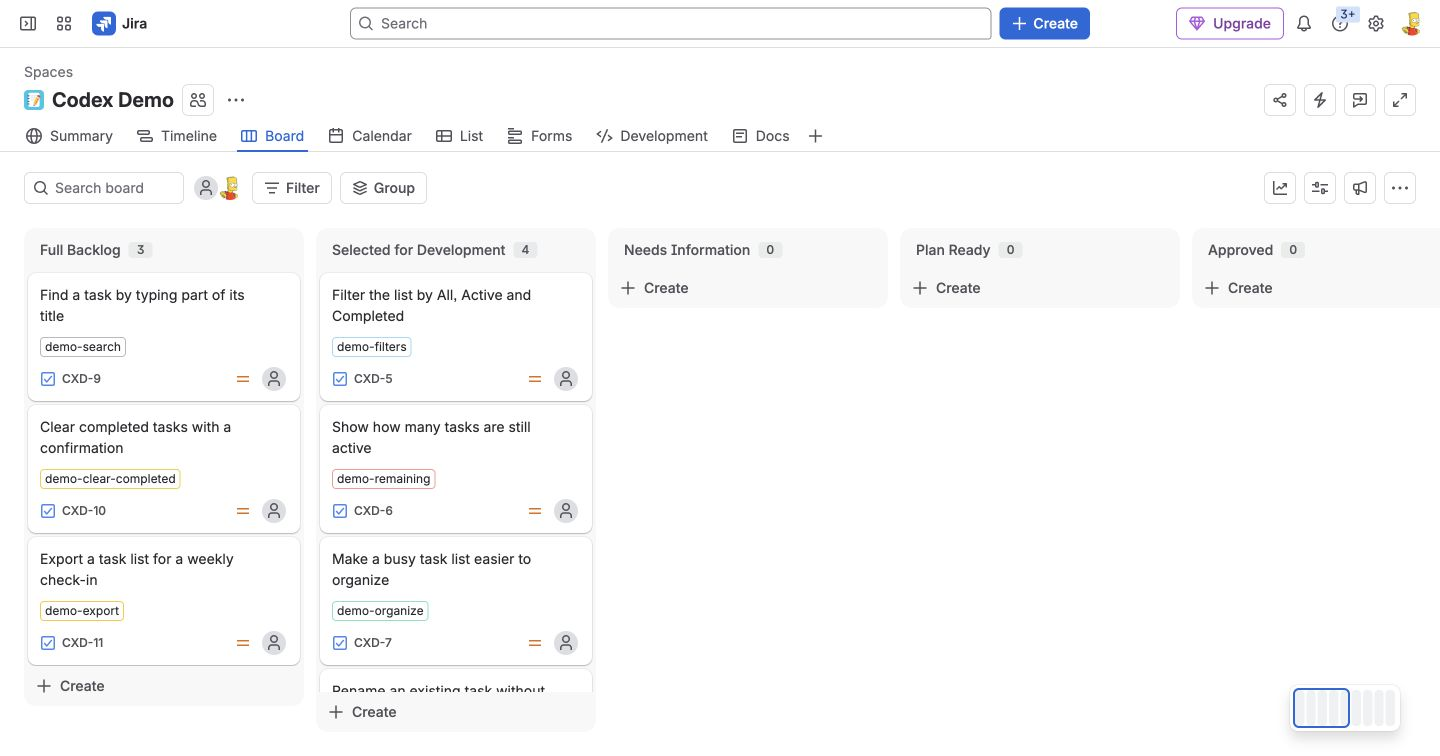
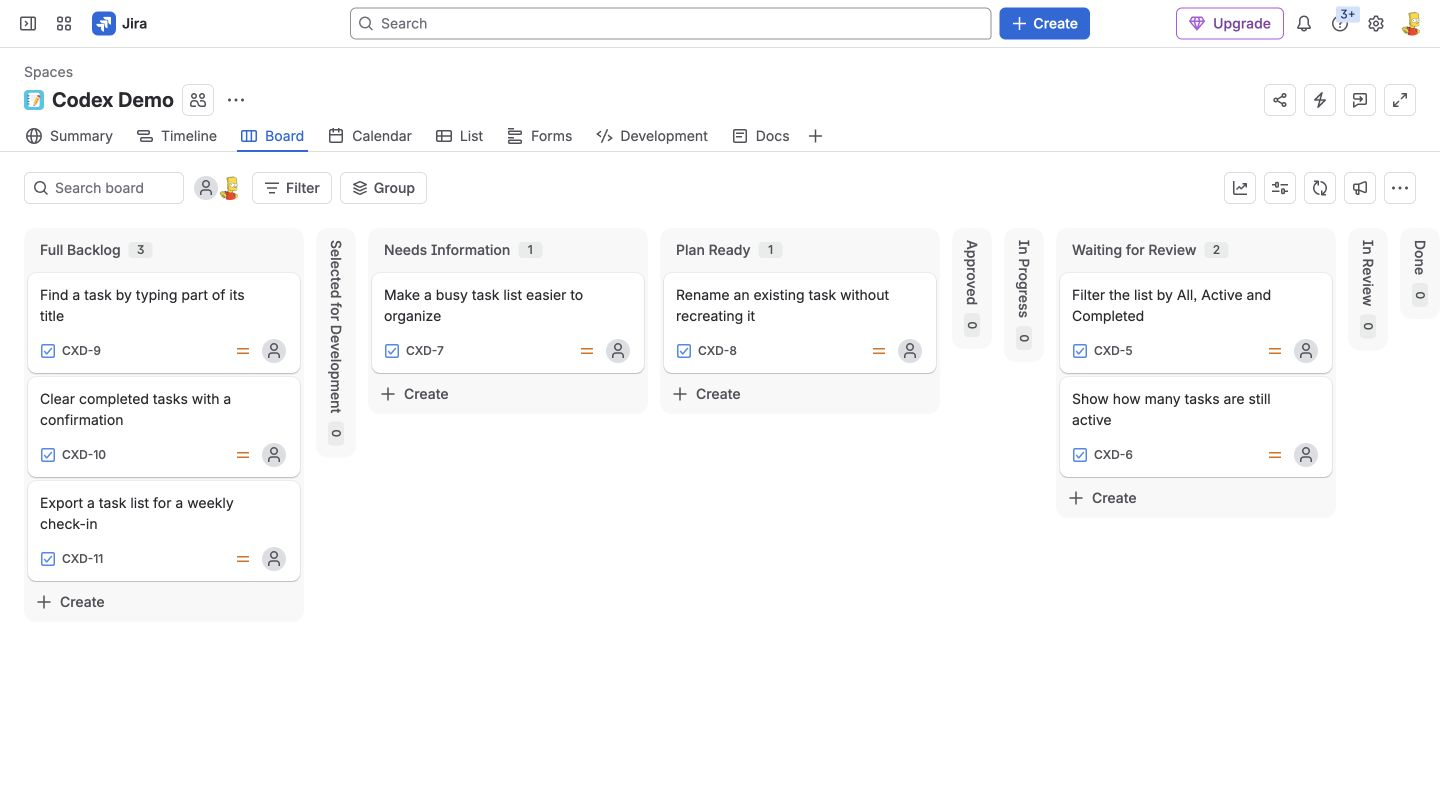
Document the current Jira demo configuration and flow

diff --git a/docs/verification.md b/docs/verification.md
@@ -1,81 +1,73 @@
-# Verification evidence
+# Verification and demo status
 
-Last updated: **2026-09-08**. The live demo now starts when work enters **Selected for
-Development**. Two fresh tickets reached independently tested PRs; an ambiguous ticket
-received real questions. All seven tickets were seeded into Full Backlog before selection.
+As of **2026-09-08**, the demo contains **3 Full Backlog tickets, 1 Needs Information,
+1 Plan Ready and 2 Waiting for Review**. Agent work starts on entry to Selected for
+Development. The application on main supports adding, completing and deleting tasks.
 
-## Live results
+## Verified capabilities
 
-| Evidence | Observed result |
+| Capability | Evidence and result |
 | --- | --- |
-| [Reset and seed run](https://github.com/bart6114/jira-agent-orchestration/actions/runs/34189571847) | Exported the four old tickets, removed them, and created CXD-5 through CXD-11. The private content export has seven-day retention. |
-| [CXD-5 selection run](https://github.com/bart6114/jira-agent-orchestration/actions/runs/34189637735) | Jira transition dispatched Codex; published plan `c28059e2f466` and moved to Plan Ready. |
-| [CXD-6 selection run](https://github.com/bart6114/jira-agent-orchestration/actions/runs/34189652544) | Published plan `d085c4972c60` and moved to Plan Ready. |
-| [CXD-7 clarification run](https://github.com/bart6114/jira-agent-orchestration/actions/runs/34189668595) | Asked three product questions about organization, ordering and persistence; moved to Needs Information. |
-| [CXD-8 planning run](https://github.com/bart6114/jira-agent-orchestration/actions/runs/34189686173) | Published a rename-task plan; left awaiting approval. A changed main requires refreshing this plan before approval. |
-| [Full Backlog negative check](https://github.com/bart6114/jira-agent-orchestration/actions/runs/34189767866) | Manually dispatched CXD-9; prepare and cleanup passed while generation, validation and publication were skipped. |
-| [CXD-5 implementation](https://github.com/bart6114/jira-agent-orchestration/actions/runs/34189876146) | Prepare, generate, independent verify, publish and cleanup passed. Created [PR #3](https://github.com/bart6114/jira-agent-orchestration/pull/3) on `codex/CXD-5`. |
-| [CXD-6 implementation](https://github.com/bart6114/jira-agent-orchestration/actions/runs/34189876414) | The same five jobs passed. Created [PR #2](https://github.com/bart6114/jira-agent-orchestration/pull/2) on `codex/CXD-6`. |
+| Clear-ticket planning | [CXD-5](https://github.com/bart6114/jira-agent-orchestration/actions/runs/34189637735) and [CXD-6](https://github.com/bart6114/jira-agent-orchestration/actions/runs/34189652544): successful selection-triggered plan publication |
+| Clarification | [CXD-7](https://github.com/bart6114/jira-agent-orchestration/actions/runs/34189668595): three questions about organization, ordering and persistence; Needs Information |
+| Plan approval example | [CXD-8](https://bartsworkspace-45974496.atlassian.net/browse/CXD-8): rename-task requirements and a plan for human review. Approval requires a plan matching the current main commit. |
+| Backlog guard | [CXD-9 check](https://github.com/bart6114/jira-agent-orchestration/actions/runs/34189767866): generation, validation and publication skip for an unselected ticket |
+| Approved implementation | [CXD-5 pipeline](https://github.com/bart6114/jira-agent-orchestration/actions/runs/34189876146) and [CXD-6 pipeline](https://github.com/bart6114/jira-agent-orchestration/actions/runs/34189876414): successful prepare, generate, independent verify, publish and cleanup |
+| Repeatable seeding | [Seeder check](https://github.com/bart6114/jira-agent-orchestration/actions/runs/34192992157): the same seven issue keys, no duplicate tickets and empty label fields |
 
-The two plans were read and approved through the allowed Jira account as part of the
-user-authorized demo preparation. The seeding workflow never approves tickets. Real Jira
-approval transitions triggered both implementation runs; the model did not approve itself.
+## Open feature PRs
 
-Both implementation runs used repository base `b61742c`. Each changed only
-`src/web/App.tsx`, `src/web/style.css` and `tests/web.test.tsx`. The independent validator
-passed **14 API/UI tests for CXD-5** and **15 for CXD-6**, plus **23 orchestration fixtures**,
-TypeScript and the production build in each run. These are separate, unmerged feature PRs.
-Their changes have not been integrated together or manually tested for accessibility.
+| Feature | PR and branch | Passing checks |
+| --- | --- | --- |
+| All / Active / Completed filters | [PR #3](https://github.com/bart6114/jira-agent-orchestration/pull/3), `codex/CXD-5` | [CI](https://github.com/bart6114/jira-agent-orchestration/actions/runs/34190898444): 14 API/UI tests, 23 orchestration fixtures, TypeScript and build |
+| Remaining-task count | [PR #2](https://github.com/bart6114/jira-agent-orchestration/pull/2), `codex/CXD-6` | [CI](https://github.com/bart6114/jira-agent-orchestration/actions/runs/34190898405): 15 API/UI tests, 23 orchestration fixtures, TypeScript and build |
 
-The agent reported sandbox restrictions on API-test sockets or fixture subprocesses. Those
-limitations did not waive checks: the separate CI job applied each candidate patch in a fresh
-checkout and passed the full commands before publishing. The PR body retains the agent's
-handoff summary followed by the publisher's independent validation evidence. PRs created
-with the workflow token do not automatically start another PR workflow; follow the linked
-implementation run for the validation jobs.
+Both PRs contain changes only in `src/web/App.tsx`, `src/web/style.css` and `tests/web.test.tsx`.
+They are separate, unmerged features. Their Jira tickets are in Waiting for Review, each with
+one completion comment containing clickable branch, PR and validation-run links.
 
-The English board was checked after publication: **3 Full Backlog, 1 Needs Information,
-1 Plan Ready, 2 Waiting for Review**. Both finished tickets lost `implementation-busy` and
-received one automatic finished comment with actual clickable branch, PR and run links.
-No review-ready label or manual duplicate completion comment was added.
+The publisher requires successful independent validation before PR creation. The agent's
+own check results are a handoff report; sandbox restrictions on sockets or subprocesses do
+not waive the separate CI gate. GitHub can require maintainer approval for additional PR
+workflow runs. The implementation pipeline supplies validation evidence independently.
 
-## Local checks and screenshots
+## Validation commands
 
-- Baseline `npm run check`: **4 API/UI tests**, TypeScript and production build passed on Node 22.23.2.
-- `npm run demo:fixtures`: **23 passing orchestration fixtures**, including backlog idling,
-  approval actor/timing, stale requirements/base/plan, HMAC state, forged markers, duplicate
-  publication, pending transitions, label preservation, patch restrictions and CLI credential isolation.
-- The baseline app was loaded in the browser with persisted sample tasks. Its open feature PRs
-  remain outside main.
-- The [visual guide](jira-visual-guide.md) contains **16 refreshed native screenshots** in English
-  (US), including real selection, questions, plans, simultaneous implementation, final review
-  handoff, all four rule configurations and the app. Captures show successive moments.
+- `npm run check`: TypeScript, 4 baseline API/UI tests and the production build.
+- `npm run demo:fixtures`: 23 orchestration fixtures covering backlog idling, approval
+  actor/timing, stale requirements/base/plan, HMAC state, forged markers, duplicate publication,
+  pending transitions, label preservation, patch restrictions and CLI credential isolation.
+- [Repository CI](https://github.com/bart6114/jira-agent-orchestration/actions/workflows/ci.yml)
+  runs both commands on Node 22.
+
+The [visual guide](jira-visual-guide.md) shows the current board, ticket content, rule
+configuration and baseline app in English (US). Its workflow diagram explains the execution
+and validation stages.
 
 ## Live configuration
 
-| Resource | Verified state |
+| Resource | Configuration |
 | --- | --- |
-| [Repository](https://github.com/bart6114/jira-agent-orchestration) | Private, owner bart6114, default branch main |
+| [Repository](https://github.com/bart6114/jira-agent-orchestration) | Public, owner bart6114, default branch main |
 | [Jira board](https://bartsworkspace-45974496.atlassian.net/jira/software/projects/CXD/boards/34) | Team-managed Kanban, nine statuses; Full Backlog is initial, Selected for Development is the planning entry |
-| [Automation rules](https://bartsworkspace-45974496.atlassian.net/jira/software/projects/CXD/settings/automation) | Four saved and enabled: selection, replies, Summary/Description edits, approval. Creation trigger removed. |
+| [Automation rules](https://bartsworkspace-45974496.atlassian.net/jira/software/projects/CXD/settings/automation) | Four enabled rules: selection, replies, Summary/Description edits and approval |
 | Reply/edit filters | Active-status JQL excludes Full Backlog and post-PR work; reply rule also excludes bot markers |
-| Provider | Codex CLI 0.153.4, OpenAI API authentication, direct CLI invocation |
-| Credentials | Jira site/cloud/project/approver variables and Jira/model/signing secrets configured; GitHub dispatch credential hidden in each Jira rule |
+| Provider | Codex CLI 0.153.4, OpenAI API authentication, direct CLI invocation; `CODEX_MODEL` is unset |
+| Demo fixture identity | `agent-demo-fixture` issue property, separate from signed orchestration state |
+| Activity indicator | `implementation-busy` while implementation and validation run |
+| Credentials | Jira site/cloud/project/approver variables and Jira/model/signing secrets; GitHub dispatch credential in hidden Jira headers |
 | Scheduled recovery | `AUTOMATION_ENABLED=false`; event-driven automation is enabled |
 
-Renew the Jira API token and the repository-scoped GitHub dispatch token before their recorded
-expiry, **2026-09-14**. Credential values are held in GitHub secrets or hidden Jira headers.
-The earlier PR #1 and branch are preserved as historical GitHub work; the reset only removed
-Jira tickets. The current demo uses PRs #2 and #3.
+The Jira API token and repository-scoped GitHub dispatch token expire on **2026-09-14**.
+Renew them before expiry. Credential values belong in GitHub secrets or hidden Jira headers.
 
-## Remaining verification and limits
+## Verification limits
 
-- CXD-7 is intentionally waiting for an answer. The new-comment rule is configured, but its
-  question → human reply → revised plan continuation has not yet been exercised in this reset.
-- Human PR review, integration of both features, merge and deployment remain undone.
-- Missed-event recovery, force-cancellation and service outages are not proven by the successful
-  runs. Fixtures cover core recovery decisions; this is not an exactly-once queue.
-- Linux generation uses the configured bubblewrap/AppArmor prerequisites and a sandbox source-read
-  preflight. See [setup](setup.md#linux-runner-prerequisites) for portability requirements.
+- CXD-7 awaits a human answer. The question → reply → revised plan continuation lacks live verification.
+- Human PR review, combined-feature integration, accessibility checks, merge and deployment lack verification.
+- Missed-event recovery, force-cancellation and service outages have fixture coverage for core
+  decisions but lack live end-to-end verification.
+- Linux generation requires bubblewrap/AppArmor and a sandbox source-read preflight.
+  See [setup](setup.md#linux-runner-prerequisites) for runner requirements.
 - Claude Code, subscription authentication, Azure DevOps and Jenkins are documented adaptation
-  routes, not live-tested integrations. Provider sources were checked on 2026-09-07.
+  routes without live integration tests. Provider source check: 2026-09-07.

diff --git a/docs/jira-visual-guide.md b/docs/jira-visual-guide.md
@@ -1,25 +1,21 @@
 # Jira: an illustrated demo
 
-All screenshots below are native captures of the live **Codex Demo (CXD)** Jira project,
-refreshed on **2026-09-08**, with Jira in **English (US)**. They replace the earlier creation-trigger
-and review-label screenshots. Captures show successive moments of the demo, not one simultaneous
-board state. Never infer current job activity from an older screenshot.
-
-The captures precede a cosmetic cleanup: visible `demo-*` labels have since been removed.
-The seeder now keeps fixture identity in an issue property. Only the temporary
-`implementation-busy` label is used to show running implementation work.
+The screenshots show the live **Codex Demo (CXD)** project in **English (US)**.
+The board separates future ideas, selected work, plan approval, implementation and human review.
+Fixture identity lives in the `agent-demo-fixture` issue property; `implementation-busy`
+indicates active implementation and validation.
 
 [Open the board](https://bartsworkspace-45974496.atlassian.net/jira/software/projects/CXD/boards/34)
 · [Demo script and tickets](demo.md) · [Verified runs and PRs](verification.md)
 
 ## 1. Full backlog versus selected work
 
-![Three future ideas in Full Backlog and four chosen demo tickets in Selected for Development](screenshots/01-board-intake.png)
+![Current demo board with backlog, clarification, plan approval and review queues](screenshots/01-board-intake.png)
 
 **Full Backlog** is the initial status and holds everything we might build. It does not trigger
 agent execution. **Selected for Development** holds work a person has chosen to start; entry
-starts clarification or planning. This is Kanban. A Sprint Backlog would imply a real sprint
-with a time window and commitment, which this example does not implement.
+starts clarification or planning. This is a Kanban queue with no time-boxed sprints or
+capacity planning. Empty columns are collapsed in the overview for readability.
 
 | Board status | Owner and meaning |
 | --- | --- |
@@ -41,7 +37,7 @@ with a time window and commitment, which this example does not implement.
 | Comment or edit requirements in Full Backlog | Reply/edit status condition excludes it | No dispatch |
 | Move into Selected for Development | Work item transitioned, destination Selected for Development | Agent posts questions or a plan |
 | Human answers on active work | Work item commented, active-status filter, bot marker excluded | Context is reassessed; plan or further questions |
-| Edit Summary or Description on active work | Field value changed, active-status filter | Old requirements/approval become stale; fresh plan |
+| Edit Summary or Description on active work | Field value changed, active-status filter | Requirements and approval require reassessment; fresh plan |
 | Move Plan Ready → Approved | Exact transition rule; worker verifies allowed actor and current plan | Implement → independent checks → branch and PR |
 | Validation succeeds and PR is created | Trusted publisher | Finished comment with links; Waiting for Review; busy label removed |
 | Human starts reviewing | Move Waiting for Review → In Review | No implementation trigger |
@@ -56,8 +52,7 @@ A changed repository base or changed requirements requires a fresh plan and appr
 ![Enabled selection rule with any source status and Selected for Development as destination](screenshots/05-selection-trigger.png)
 
 Use **Work item transitioned**, leave From status blank, and set To status to **Selected for
-Development**. The old Work item created trigger is removed. The web request sends only the
-issue key; the worker fetches Jira's authoritative description, comments and changelog.
+Development**. The web request sends only the issue key; the worker fetches Jira's authoritative description, comments and changelog.
 
 ## 4. Replies and requirements edits
 
@@ -88,7 +83,7 @@ The worker checks that an allowlisted account performed **Plan Ready → Approve
 plan was published, and that the plan, requirements and repository base are still current.
 Thumbs-up reactions and text saying approved do not authorize implementation.
 
-![Demo board after planning with questions and implementation plans](screenshots/02-board-planning.png)
+![Needs Information and Plan Ready queues](screenshots/02-board-planning.png)
 
 ## 6. The GitHub dispatch request
 
@@ -129,23 +124,31 @@ CXD-5 gives the agent bounded behavior and test expectations. The code patch may
 CXD-7 intentionally leaves the desired organization behavior undecided. These are real model
 questions, not seeded bot text. A new human comment with the missing decisions resumes planning.
 
-![A real Codex implementation plan for the filtering ticket at Plan Ready](screenshots/14-implementation-plan.png)
+![Codex implementation plan for the rename ticket at Plan Ready](screenshots/14-implementation-plan.png)
 
 The plan is a separate comment from the completion result. The signed marker supports integrity
-checking and retry deduplication. CXD-8 provides another plan that can be reviewed during a demo.
+checking and retry deduplication. CXD-8 provides a plan for the human approval step.
 
 ## 8. Real execution and review handoff
 
-![Two approved demo features in In Progress with implementation-busy labels](screenshots/03-board-implementation.png)
+```mermaid
+flowchart LR
+  A[Approved plan] --> B[In Progress]
+  B --> C[Codex implementation]
+  C --> D[Independent validation]
+  D --> E[Publish branch and PR]
+  E --> F[Waiting for Review]
+  F --> G[Human starts In Review]
+```
 
-The worker adds `implementation-busy` when execution begins. The label stays through the
-independent validation job. The screenshot records actual running work; current jobs can
-finish before you open the board. Failures clear the busy label and report the failed run.
+The worker adds `implementation-busy` on entry to In Progress and keeps it through independent
+validation. Publication posts the completion links, clears the label and moves the ticket to
+Waiting for Review. Failures clear the activity label and report the failed run in Jira.
 
 ![The finished feature tickets in Waiting for Review before active human review](screenshots/04-board-review.png)
 
 Only independent passing checks and PR publication move a ticket here. A human later moves
-it to In Review. No `ready-for-review` label is used.
+it to In Review when review starts.
 
 ![One automatic completion comment with clickable branch, PR and validation-run links](screenshots/15-completion-comment.png)
 

diff --git a/README.md b/README.md
@@ -20,7 +20,7 @@ CI checking the result, and people approving the plan and reviewing the code.
 failure or ordinary cancellation. It indicates activity; **In Progress** alone is not proof
 that a worker is still running.
 **Waiting for Review** means the tested PR is ready for a person to pick up. **In Review**
-means human review has started. There is no separate review-ready label.
+means a person is reviewing the PR.
 
 Clarification is skipped when the ticket already has enough context. Changed requirements or
 a changed repository base require a fresh plan and approval. PR review feedback, merging and
@@ -37,8 +37,8 @@ how another agent can scaffold this pattern with **Codex or Claude Code**, using
 subscription authentication**, and adapt it to other CI/Git providers.
 
 **Board model:** this is Kanban. **Full Backlog** holds future ideas; **Selected for Development**
-means work has been chosen, not that its implementation plan is approved. We use that name
-instead of Sprint Backlog because this example has no time-boxed sprints or capacity planning.
+means work has been chosen for clarification and planning. Plan approval is a separate human
+decision. The queue has no time-boxed sprints or capacity planning.
 Creating or editing a backlog ticket does not invoke the agent. Moving into Selected for
 Development starts clarification/planning; **Plan Ready → Approved** starts implementation.
 
@@ -48,7 +48,7 @@ board has three backlog ideas, one clarification, one plan awaiting approval, an
 PRs in Waiting for Review: [task filters (#3)](https://github.com/bart6114/jira-agent-orchestration/pull/3)
 and [remaining-task count (#2)](https://github.com/bart6114/jira-agent-orchestration/pull/2).
 
-![Demo intake: backlog ideas and selected work before planning](docs/screenshots/01-board-intake.png)
+![Demo board: backlog, clarification, plan approval and review queues](docs/screenshots/01-board-intake.png)
 
 ## Try the app
 
@@ -78,7 +78,7 @@ the sample Jira tickets propose features that do not yet exist.
 - [Authentication](docs/authentication.md): API versus subscription and runner choices.
 - [Porting](docs/porting.md): Azure DevOps and Jenkins equivalents.
 - [Demo script](docs/demo.md): example tickets and the walkthrough.
-- [Verification](docs/verification.md): evidence and remaining setup work.
+- [Verification](docs/verification.md): test evidence and verification limits.
 
 ## The small pieces
 
@@ -91,10 +91,8 @@ the sample Jira tickets propose features that do not yet exist.
 | `automation/prompts/` and `schemas/` | Visible agent instructions and output contracts |
 | `.github/workflows/` | CI jobs and their credential/artifact boundaries |
 
-We deliberately call `codex exec` instead of the Codex action so the invocation is visible
-and portable. OpenAI recommends its action for GitHub and it supplies additional credential
-handling; this example instead separates credential-bearing publication from agent execution,
-scopes the model key to the invocation, and validates code in a fresh job. It is an educational
-starting point, not an enterprise isolation solution. [Official guidance](https://learn.chatgpt.com/docs/non-interactive-mode).
+`codex exec` makes the agent invocation visible and portable. Publication runs in separate
+jobs with its own credentials; the model key is scoped to the invocation, and validation
+runs in a fresh job. The example is an educational starting point for adapting these boundaries. [Official guidance](https://learn.chatgpt.com/docs/non-interactive-mode).
 
 No automatic merging, deployment, custom webhook server, or generic agent framework.

diff --git a/docs/setup.md b/docs/setup.md
@@ -26,7 +26,7 @@ not display names, for the approver allowlist. Discover IDs through the user/pro
 
 The Jira API identity needs project browsing, comment creation, issue editing/properties,
 transitions and changelog access. Use a dedicated service account where your Jira plan supports
-one. A personal account works for this private demo; signed markers distinguish bot comments
+one. This demo uses a personal account; signed markers distinguish bot comments
 from the same person's human comments. Keep the token restricted to the intended setup.
 
 For a scoped Jira token, select Jira and the classic scopes `read:jira-work`, `write:jira-work`,
@@ -172,7 +172,7 @@ run URL. These use explicit [Jira ADF hyperlink marks](https://developer.atlassi
 so readers can click them; text round-tripping preserves signed comment verification.
 It moves the ticket from **In Progress → Waiting for Review** and clears the busy
 label. A person moves it to **In Review** when starting the review, then **Done** after completion.
-There is no review-ready label. Recovery preserves Waiting for Review, In Review and Done,
+Recovery preserves Waiting for Review, In Review and Done,
 and reuses the same completion comment rather than posting duplicate replies.
 
 A force-cancel, unavailable runner or Jira outage can prevent cleanup; the next run repairs
@@ -190,15 +190,15 @@ build gate must pass there before a PR can be published. No sandbox permissions 
 `automation/demo-tickets.json` defines seven small, independent examples. Run the manual
 **Prepare demo tickets** workflow to seed them into Full Backlog. By default it preserves
 existing tickets and matches the `agent-demo-fixture` issue property, so rerunning does not
-create duplicates or add visible labels. Existing `demo-*` labels are migrated into this
-property before removal. This property is only fixture identity; it grants no agent approval.
+create duplicates or add visible labels. This property is only fixture identity; it grants
+no agent approval.
 It never selects or approves work and receives no model or GitHub publishing credential.
 
 Use reset only on a dedicated demo project, with all ticket workers idle. Selecting
 `reset_project=true` and supplying the exact `confirm_project` key deletes **every ticket
 in that configured project**, including comments. It first exports issue content/comments
-to a private, seven-day artifact and stops if the project changed before deletion. That
-export is a content record, not a full Jira restore facility. GitHub PRs/branches are preserved.
+to a seven-day workflow artifact and stops if the project changed before deletion. Artifact
+access follows repository visibility. The export is a content record, not a full Jira restore facility. GitHub PRs/branches are preserved.
 After reset, Jira assigns new issue numbers; use the workflow's `demo-tickets` artifact.
 
 ```sh

diff --git a/docs/demo.md b/docs/demo.md
@@ -31,10 +31,11 @@ These keys belong to this demo account. A new setup or reset gets its own keys.
    its actual questions with the intended behavior, for example an optional alphabetical
    A–Z sort, default off, case-insensitive, no saved preference, preserving tasks.
 4. Open CXD-8 in **Plan Ready**. Read the plan and its acceptance criteria. Leave it pending
-   for the audience to approve. If main changed since it was generated, refresh the plan
-   with a manual dispatch first and approve only the latest plan.
-5. Show the recorded **In Progress** screenshot of CXD-5 and CXD-6, their real workflow runs,
-   and the **Waiting for Review** column they reach when independent checks pass.
+   for the audience to approve. The plan must match the current main commit. Use a manual
+   dispatch to generate a matching plan when needed, then approve that plan.
+5. Show the implementation and independent validation jobs linked from CXD-5 and CXD-6,
+   then their tested PRs in **Waiting for Review**. Explain that In Progress indicates
+   execution and `implementation-busy` tracks the active worker.
 6. Open a completion comment: PR, branch and validation-run URLs are clickable. Open its PR
    to show the code and independent test evidence. Move to **In Review** only when a person
    begins reviewing. Leave merging to a human.
@@ -49,8 +50,8 @@ just to make the board look active.
 
 The manual **Prepare demo tickets** workflow seeds all seven examples into Full Backlog.
 Default mode uses the `agent-demo-fixture` issue property and preserves existing tickets.
-Old `demo-*` labels are migrated into that property and removed. Destructive reset is
-for a dedicated demo project only, with workers idle, and requires the exact project key.
+Destructive reset is for a dedicated demo project only, with workers idle, and requires
+the exact project key.
 See [setup](setup.md#prepare-a-repeatable-demo) for the content export, deletion scope and commands.
 No seeding step writes a fake plan, approves a ticket or creates a pretend PR.
 

diff --git a/AGENTS.md b/AGENTS.md
@@ -26,6 +26,7 @@ status filters when adapting. Use `automation/demo-tickets.json` for reproducibl
 
 ## When maintaining this example
 
+- Document current behavior, configuration and usage. Keep change history and migration narratives out of the documentation.
 - Node 22.13+; `npm ci`; `npm run dev`. Frontend: http://127.0.0.1:5173.
 - `npm run check` runs TypeScript checking, API/UI tests, and the frontend build.
 - `npm run demo:fixtures` runs orchestration tests without cloud credentials or model calls.
@@ -63,7 +64,7 @@ this example's application choices. Inspect first; reuse the target's stack and 
    - Pinned CLI version, optional model override, auth mode and runner/storage requirements.
    - Allowed application paths and the target repository's independent validation commands.
    - State-signing secret and CI secrets/artifact retention. Rotate carefully: changing the
-     signing key invalidates old state and signed comment markers.
+     signing key invalidates existing state and signed comment markers.
 5. Implement the selected provider recipe below. Keep Jira/Git publishing outside model execution.
 6. Configure project-scoped Jira automation and CI secrets. Provide exact setup actions for
    any step that requires the user's credential entry or access authorization.

diff --git a/docs/authentication.md b/docs/authentication.md
@@ -13,7 +13,7 @@ The API project pays for these calls separately from a ChatGPT subscription.
 The model process still needs its inference credential. Shell environment filtering is not a
 security boundary against a compromised same-user process. Use a vetted credential proxy and
 stronger process isolation if your threat model requires protecting that key from arbitrary
-agent-executed code. The GitHub/Jira publishing credentials already live in separate jobs.
+agent-executed code. The GitHub/Jira publishing credentials live in separate jobs.
 
 [Codex authentication](https://learn.chatgpt.com/docs/auth) ·
 [Non-interactive credential guidance](https://learn.chatgpt.com/docs/non-interactive-mode) ·
